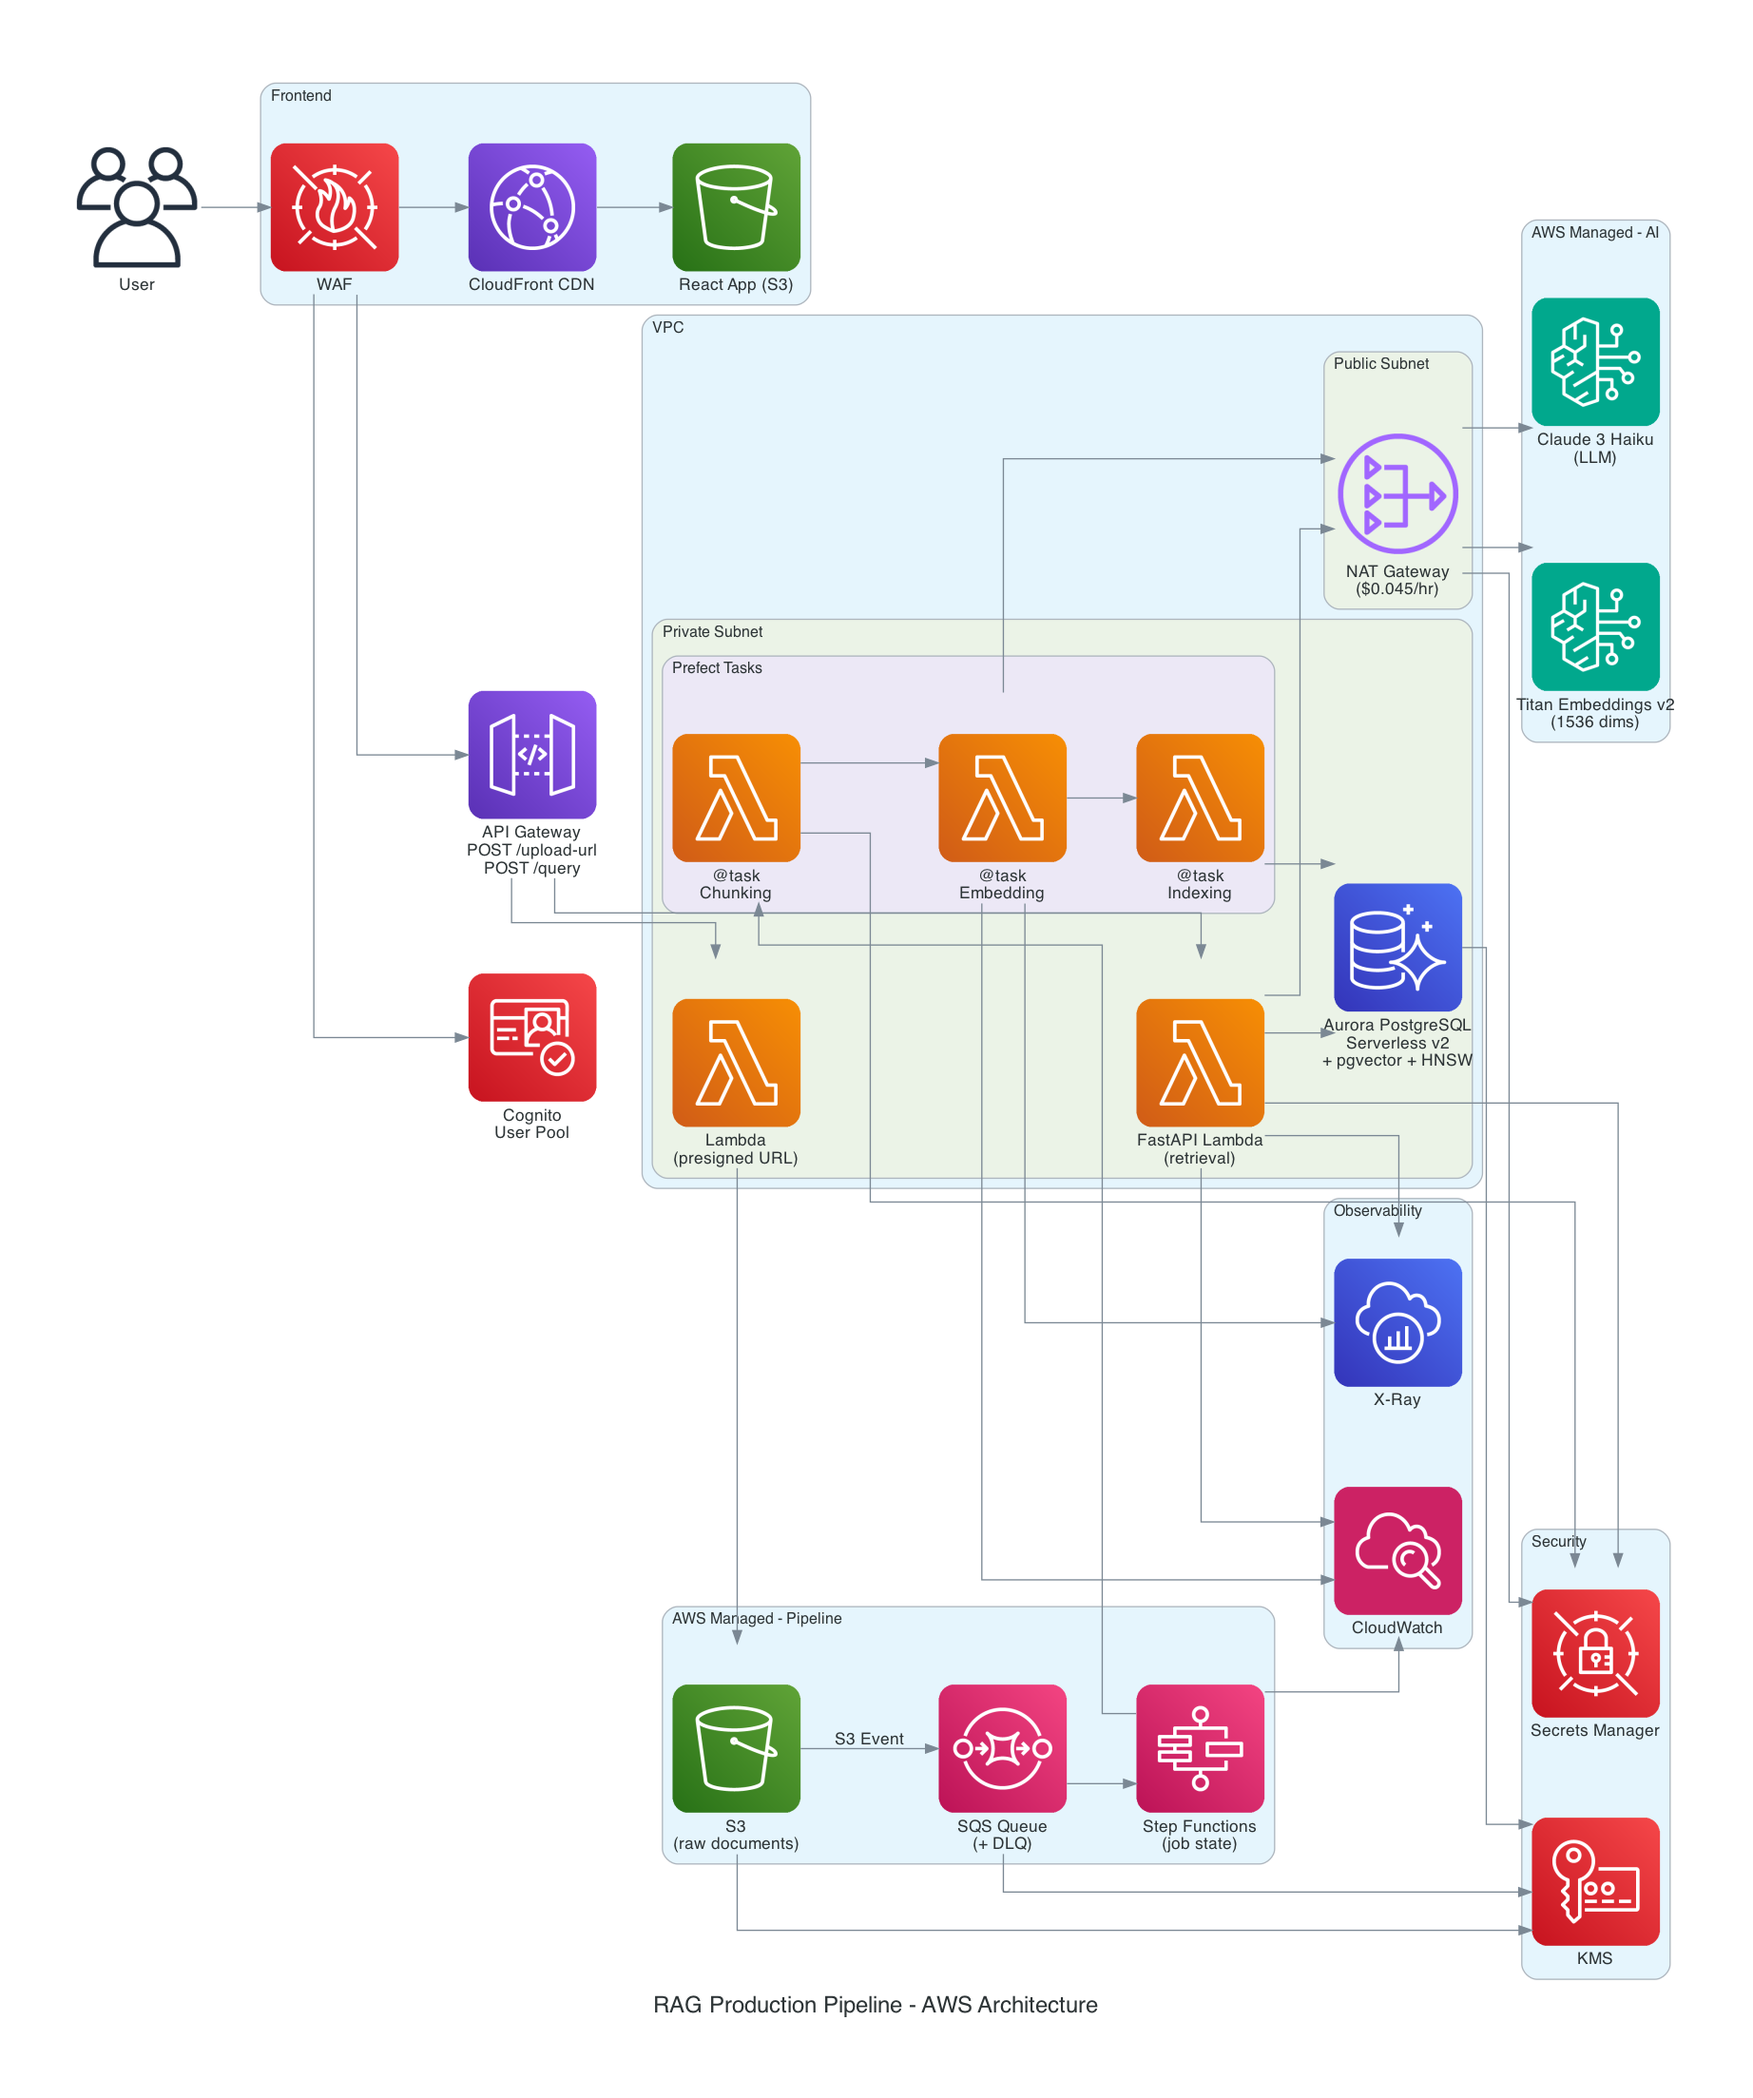
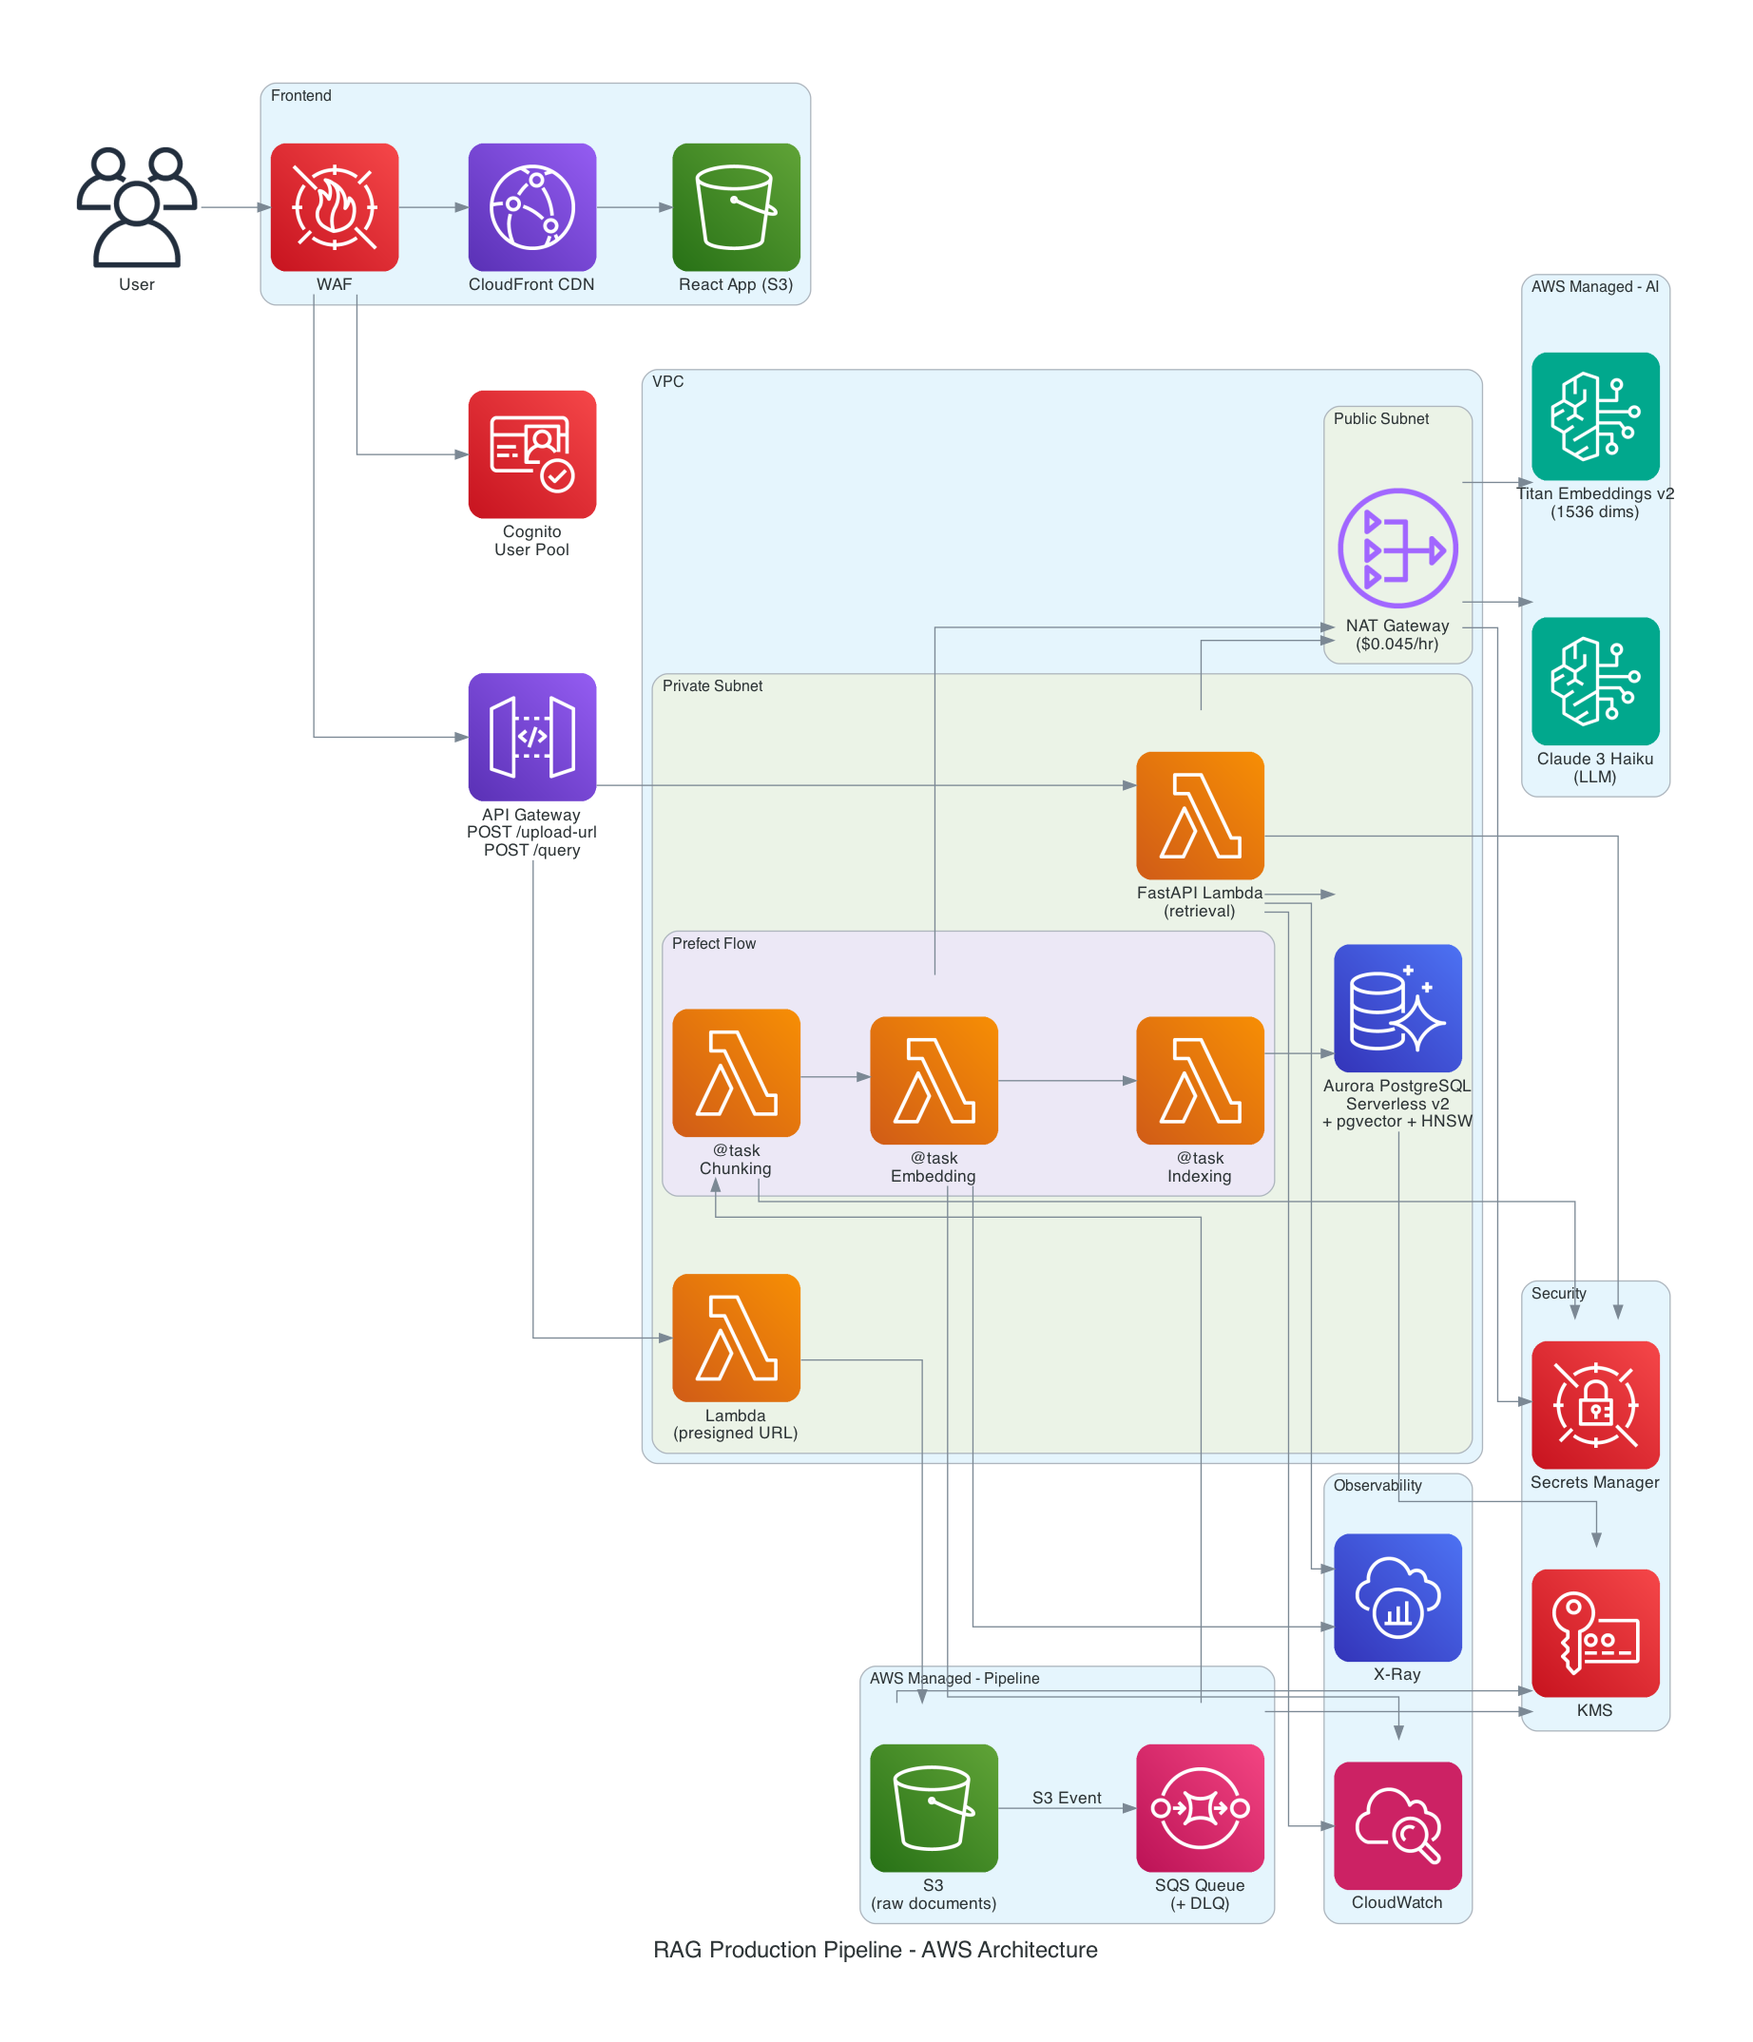
Remove Step Functions, add Aurora Multi-AZ HA note, Prefect as sole orchestrator

diff --git a/diagram.py b/diagram.py
@@ -10,7 +10,7 @@ from diagrams.aws.storage import S3
 from diagrams.aws.compute import Lambda
 from diagrams.aws.database import Aurora
 from diagrams.aws.ml import Bedrock
-from diagrams.aws.integration import SQS, StepFunctions
+from diagrams.aws.integration import SQS
 from diagrams.aws.network import APIGateway, CloudFront, NATGateway
 from diagrams.aws.security import Cognito, SecretsManager, KMS, WAF
 from diagrams.aws.management import Cloudwatch
@@ -47,7 +47,6 @@ with Diagram(
     with Cluster("AWS Managed - Pipeline"):
         doc_s3 = S3("S3\n(raw documents)")
         sqs = SQS("SQS Queue\n(+ DLQ)")
-        sf = StepFunctions("Step Functions\n(job state)")
 
     with Cluster("AWS Managed - AI"):
         titan = Bedrock("Titan Embeddings v2\n(1536 dims)")
@@ -70,7 +69,7 @@ with Diagram(
         with Cluster("Private Subnet"):
             presigned_fn = Lambda("Lambda\n(presigned URL)")
 
-            with Cluster("Prefect Tasks"):
+            with Cluster("Prefect Flow"):
                 chunking = Lambda("@task\nChunking")
                 embedding = Lambda("@task\nEmbedding")
                 indexing = Lambda("@task\nIndexing")
@@ -87,8 +86,7 @@ with Diagram(
     apigw >> presigned_fn
     presigned_fn >> doc_s3
     doc_s3 >> Edge(label="S3 Event") >> sqs
-    sqs >> sf
-    sf >> chunking
+    sqs >> chunking
     chunking >> embedding >> indexing
     indexing >> aurora
 
@@ -111,7 +109,6 @@ with Diagram(
     chunking >> secrets
 
     # ── OBSERVABILITY ──
-    sf >> cw
     retrieval >> cw
     embedding >> cw
     retrieval >> xray

diff --git a/README.md b/README.md
@@ -38,7 +38,7 @@ FLOW 1 - INGESTION (user uploads a document)
                                                                   SQS Queue (+ DLQ)
                                                                        |
                                                                        v
-                                                              Step Functions (job state)
+                                                              Prefect Flow (job state + orchestration)
                                                                        |
                                                                        v
                                                     ┌──────────────────┼──────────────────┐
@@ -73,7 +73,7 @@ FLOW 2 - RETRIEVAL (user asks a question)
 WHERE THINGS LIVE
 ==================
 
-  Outside VPC (AWS Managed):   API Gateway, S3, SQS, Step Functions,
+  Outside VPC (AWS Managed):   API Gateway, S3, SQS,
                                 Bedrock, Cognito, CloudFront, WAF,
                                 Secrets Manager, KMS, CloudWatch, X-Ray
 
@@ -102,14 +102,13 @@ SHARED INFRASTRUCTURE
 | Document storage | Amazon S3 | Infinitely scalable, cheap, triggers pipeline automatically via events - no polling |
 | Ingestion trigger | S3 Events + SQS | CDC without polling - only new/changed documents trigger re-processing |
 | Message queue | Amazon SQS | Decouples trigger from processing, built-in retry, dead-letter queue for failed messages |
-| Pipeline orchestration | AWS Step Functions | Triggers the Prefect flow and tracks the overall job state (PENDING/RUNNING/COMPLETED/FAILED). Provides 90 days execution history and visual state graph |
-| Data pipeline | Prefect | Orchestrates the ingestion steps (chunking, embedding, indexing) as Python tasks with @task decorator. Chosen over Airflow (too heavy) and raw Step Functions (JSON, hard to debug). Free cloud tier with UI showing every flow run, retry history, and logs |
+| Data pipeline | Prefect | Orchestrates the ingestion steps (chunking, embedding, indexing) as Python tasks with @task decorator. Chosen over Airflow (too heavy). Free cloud tier with UI showing every flow run, retry history, and logs |
 | RAG evaluation | RAGAS | Runs in two places: (1) CI/CD quality gate after staging deploy - blocks prod if Faithfulness/Relevancy/Precision/Recall drop below threshold; (2) nightly Prefect scheduled flow that publishes scores to CloudWatch for continuous monitoring |
 | Compute | AWS Lambda | Scales from 0 to 1000 concurrent executions automatically, costs nothing when idle, each function has its own least-privilege IAM role |
 | Embedding model | AWS Bedrock - Titan Embeddings v2 | Converts text to 1536-dimensional vectors. Used twice: at ingestion (chunks) and at retrieval (user query). AWS-native - no external API keys, IAM auth only |
 | LLM inference | AWS Bedrock - Claude 3 Haiku | Called only after pgvector retrieval to generate the final answer. AWS-native, no OpenAI dependency, IAM auth |
 | Vector store | pgvector on Aurora PostgreSQL | Standard PostgreSQL with vector extension - no new infra to learn. HNSW index handles 1M+ vectors at 10-50ms. SQL filters for metadata. Upsert prevents duplicates |
-| Database engine | Aurora Serverless v2 (auto-pause) | Scales to 0 when idle - costs ~$0 when not in use. Auto-scales up when traffic arrives |
+| Database engine | Aurora Serverless v2 (auto-pause) | Scales to 0 when idle - costs ~$0 when not in use. Auto-scales up when traffic arrives. Multi-AZ enabled - automatic failover to replica in AZ-2 in ~30 seconds, no manual intervention required |
 | API layer | Amazon API Gateway | SSL, rate limiting, Cognito JWT authorization out of the box |
 | Backend | FastAPI + Lambda (Mangum) | Python-native, fast to develop, Mangum adapter makes it run inside Lambda |
 | Authentication | Amazon Cognito | Managed user auth (signup, login, JWT). API Gateway validates JWT on every request - no custom auth code |
@@ -148,9 +147,6 @@ Acts as the buffer between the S3 trigger and the processing pipeline. If the pi
 ---
 
 ### Processing
-
-**AWS Step Functions**
-Orchestrates the multi-step pipeline (chunking → embedding → indexing) as a state machine with explicit states: PENDING, RUNNING, COMPLETED, FAILED. We use Step Functions because it gives us a visual execution graph, built-in retry with exponential backoff, and 90 days of execution history - all without writing orchestration code from scratch.
 
 **AWS Lambda**
 Runs each pipeline step (chunking, embedding, indexing, retrieval) as isolated, stateless functions. We use Lambda because it scales automatically from 0 to 1000 concurrent executions, costs nothing when idle, and each function has its own IAM role with least-privilege permissions.
@@ -193,6 +189,7 @@ We use Claude 3 on Bedrock (not OpenAI GPT) for the same reason as Titan - zero 
 Stores document chunks alongside their vector embeddings and metadata. We chose pgvector over dedicated vector databases (Qdrant, Pinecone, Weaviate) because:
 - It runs on standard PostgreSQL - no new infrastructure to learn or operate
 - Aurora Serverless v2 auto-pauses when idle → **costs ~$0 when not in use** (critical for a portfolio project)
+- Multi-AZ enabled - primary in AZ-1, replica in AZ-2. Automatic failover in ~30 seconds if primary fails, zero manual intervention
 - Supports HNSW indexing for fast approximate nearest-neighbor search at 1M+ vectors
 - Metadata filters use standard SQL WHERE clauses - no proprietary query language
 - Upsert via `INSERT ... ON CONFLICT DO UPDATE` prevents duplicates and HNSW graph fragmentation
@@ -272,9 +269,6 @@ Alarms trigger when error rate exceeds threshold or DLQ receives messages. SNS f
 **AWS X-Ray**
 Distributed tracing across Lambda → Bedrock → Aurora. Pinpoints exactly where latency comes from in the end-to-end request path. Especially useful when debugging slow embedding calls or cold starts.
 
-**Step Functions Execution History**
-Every document ingestion is a tracked execution with visual state graph. You can see exactly which step failed, what the input/output was, and replay failed executions - without digging through logs.
-
 ---
 
 ### Infrastructure & CI/CD
@@ -318,7 +312,6 @@ Traffic never leaves the AWS private network. Required for compliance frameworks
 | Bedrock | Interface | ~$14.60/month |
 | SQS | Interface | ~$14.60/month |
 | Secrets Manager | Interface | ~$14.60/month |
-| Step Functions | Interface | ~$14.60/month |
 | CloudWatch Logs | Interface | ~$14.60/month |
 | X-Ray | Interface | ~$14.60/month |
 | **Total networking** | | **~$87/month** |
@@ -343,7 +336,7 @@ Traffic never leaves the AWS private network. Required for compliance frameworks
 |---|---|---|
 | Aurora Serverless v2 (auto-pause) | ~$5–10 | Scales to 0 when idle |
 | NAT Gateway | ~$33 | See networking decision above |
-| Lambda + SQS + Step Functions | ~$1 | Pay per use, near zero at low traffic |
+| Lambda + SQS + Prefect | ~$1 | Pay per use, near zero at low traffic |
 | S3 + CloudFront | ~$1 | Minimal storage + CDN |
 | API Gateway | ~$1 | Pay per request |
 | CloudWatch + X-Ray | ~$2 | Log storage + traces |
@@ -354,7 +347,7 @@ Traffic never leaves the AWS private network. Required for compliance frameworks
 
 ---
 
-## Job States (Step Functions)
+## Job States (Prefect)
 
 Every document ingestion is a tracked job:
 
@@ -369,7 +362,7 @@ PENDING → RUNNING → COMPLETED
 
 - **Retry policy**: 3 attempts with exponential backoff (1s, 2s, 4s)
 - **Dead-letter queue**: messages go to SQS DLQ after max retries
-- **Execution history**: Step Functions console, last 90 days
+- **Execution history**: Prefect UI, full flow run and task-level history
 - **Config per environment**: SSM Parameter Store (`/rag-pipeline/dev/`, `/rag-pipeline/prod/`)
 
 ---
@@ -477,15 +470,14 @@ rag-production-pipeline/
 ├── embedding/          # Batch embedding pipeline, model versioning
 ├── indexing/           # pgvector upsert, HNSW index management
 ├── retrieval/          # FastAPI app, metadata filters, reranking
-├── flows/              # Prefect flows and tasks (ingestion pipeline)
-├── orchestration/      # Step Functions state machine definitions
+├── flows/              # Prefect flows and tasks
 ├── evaluation/         # RAGAS evaluation pipeline
 ├── observability/      # CloudWatch metrics publisher, structured logger
 ├── infra/              # Terraform modules and environments
 │   ├── modules/
 │   │   ├── networking/    # VPC, subnets, NAT Gateway (toggle on/off)
 │   │   ├── ingestion/     # S3, SQS, S3 event notifications
-│   │   ├── processing/    # Lambda functions, Step Functions
+│   │   ├── processing/    # Lambda functions
 │   │   ├── storage/       # Aurora PostgreSQL, pgvector setup
 │   │   ├── retrieval/     # API Gateway, Lambda
 │   │   ├── security/      # Cognito, Secrets Manager, KMS, WAF, IAM
@@ -543,4 +535,3 @@ python diagram.py   # outputs to images/architecture.png
 - [pgvector HNSW indexing](https://github.com/pgvector/pgvector)
 - [AWS Bedrock Titan Embeddings v2](https://aws.amazon.com/bedrock/)
 - [RAGAS - RAG Evaluation Framework](https://docs.ragas.io/)
-- [Step Functions - Amazon States Language](https://docs.aws.amazon.com/step-functions/latest/dg/concepts-amazon-states-language.html)
